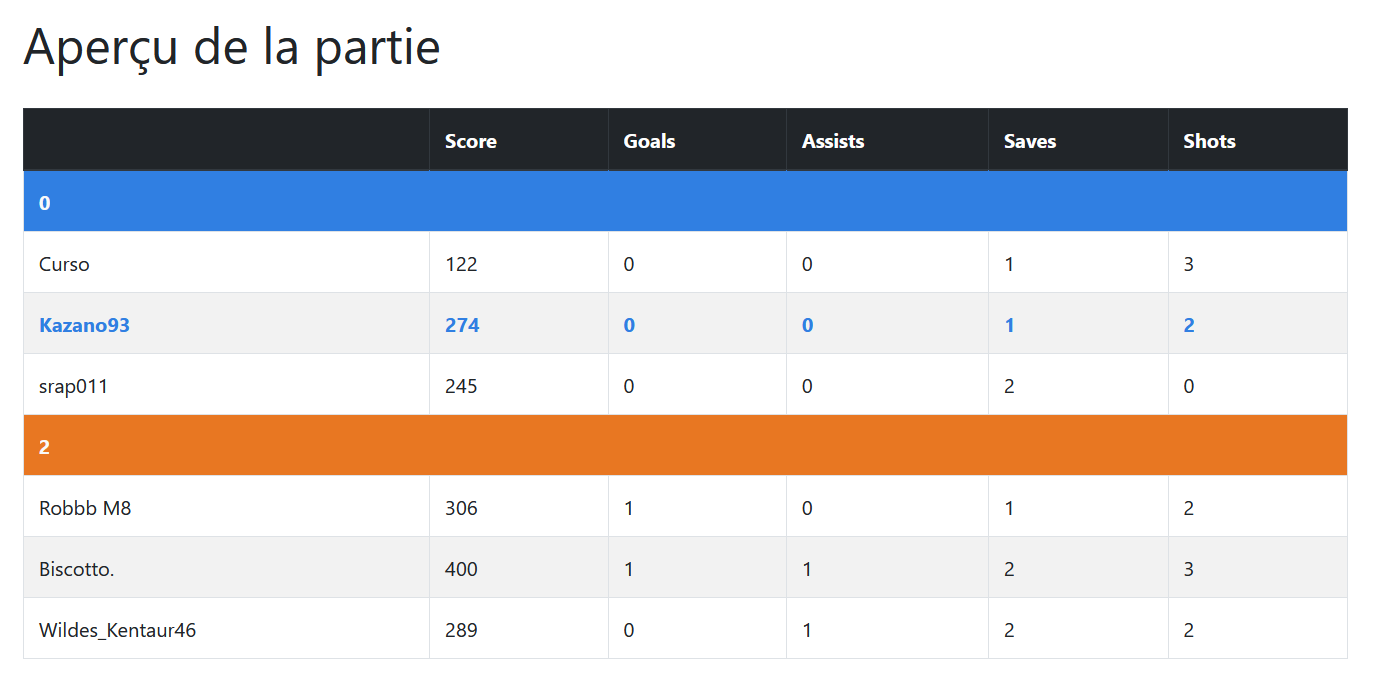
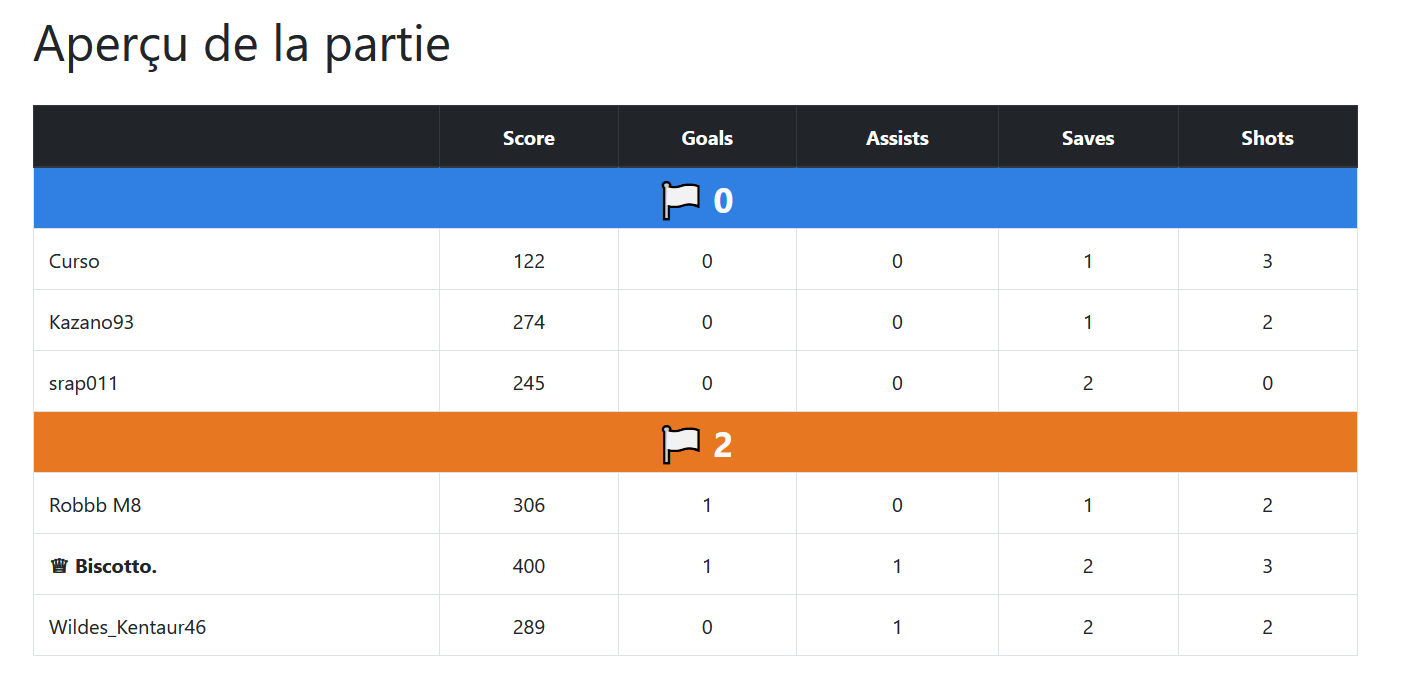
MàJ README.

diff --git a/README.md b/README.md
@@ -108,9 +108,17 @@ quel pourcentage de la partie la balle a passé sur le demi-terrain de chacune d
 #### Avant modification
 ![ScoreBoard Avant](./data/Scoreboard.png)
 #### Après modification
-- Couleur + gras en hover de ligne.
+- **Hover** : couleur de texte et de fond de ligne changées.
+- **Score** plus visible (centré et augmenté en taille).
+- **MVP** : le meilleur joueur de la partie voit maintenant son nom écrit en gras et une couronne placée devant son nom vient renforcer sa visibilité.
 ![ScoreBoard Après](./data/Scoreboard_new.png)
-- Histogramme de comparaison entre un joueur et tous ses adversaires (le score du joueur est de la couleur de son équipe, le score moyen des autres joueurs (ne l'incluant pas lui) est en gris)
+- Histogramme de comparaison entre un joueur et, au choix :
+  -  **tous les joueurs** 
+  -  **tous ses alliés**
+  -  **tous ses adversaires**
+Le score du joueur est de la couleur de son équipe, le score moyen des autres joueurs (ne l'incluant pas lui) est en gris.
+  -  **un des autres joueurs** apparentant ou non à son équipe.
+
 ![ScoreBoard + Histogramme](./data/Scoreboard_Histogramme_new.png)
 
 ### Diagramme circulaire de la pression
